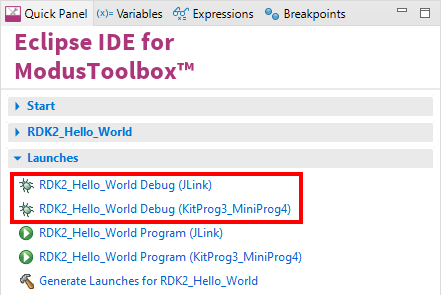
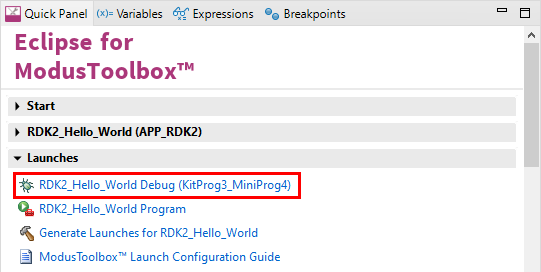
mtb 2025.04 updates.

Changed region(s): [[0.0, 0.3235, 0.7075, 1.0], [0.0, 0.0, 1.0, 0.6176]]

diff --git a/README.md b/README.md
@@ -8,7 +8,7 @@ This example is an introduction to the basic components of the board: LEDs, Butt
 
 ## Requirements
 
-- [ModusToolbox® software](https://www.infineon.com/cms/en/design-support/tools/sdk/modustoolbox-software/) **v3.x** [built with **v3.0**]
+- [ModusToolbox® software](https://www.infineon.com/cms/en/design-support/tools/sdk/modustoolbox-software/) **v2025.4.0** [built with **v3.0**]
 
 ## Supported toolchains (make variable 'TOOLCHAIN')
 
@@ -129,7 +129,7 @@ The firmware example uses KitProg3 Debug UART for debug output. LED1 and LED2 is
 
 ### Debugging
 
-If you successfully have imported the example, the debug configurations are already prepared to use with a the KitProg3, MiniProg4, or J-link. Open the ModusToolbox perspective and find the Quick Panel. Click on the desired debug launch configuration and wait for the programming to complete and debugging process to start.
+If you have successfully imported the example, the debug configurations are already prepared to use with the KitProg3, MiniProg4. Open the ModusToolbox perspective and find the Quick Panel. Click on the desired debug launch configuration and wait for the programming to complete and the debugging process to start.
 
 <img src="images/hello_world_debug_start.png" style="zoom:100%;" />
 
